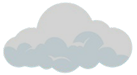
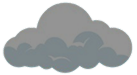
feat : 구름 상태 차이 및 구름 클릭 시 바로가기

diff --git a/src/components/roadmap/cloud.jsx b/src/components/roadmap/cloud.jsx
@@ -1,5 +1,5 @@
 import "../../css/roadmap/roadmapPage.css";
-import { CLOUD_STATE } from "../../data/roadmapStagedata";
+import { CLOUD_STATE, SHORT_CUT_URL } from "../../data/roadmapStagedata";
 
 const prefix = `/src/assets/roadmap/images/`;
 
@@ -13,9 +13,52 @@ const prefix = `/src/assets/roadmap/images/`;
  * @param {function} onMouseEnter - 마우스가 구름 진입 시 실행될 함수
  * @param {function} onMouseLeave - 마우스가 구름 이탈 시 실행될 함수
  */
-function Cloud({stageId, position, state, onClick, isCurrent, onMouseEnter, onMouseLeave,}) {
+function Cloud({
+  stageId,
+  position,
+  state,
+  onClick,
+  isCurrent,
+  onMouseEnter,
+  onMouseLeave,
+}) {
   // 이미지 링크
   let imgSrc;
+
+  const handleClick = () => {
+    if (isCurrent) {
+      // 현재 캐릭터가 있는 구름이면 바로가기 URL로 이동
+      const shortcutUrl = SHORT_CUT_URL[stageId - 1]; // stageId는 1부터 시작하므로 -1
+      if (shortcutUrl) {
+        const width = 1200;
+        const height = 800;
+
+        if (stageId == 3) {
+          window.resizeTo(width, height);
+          navigate("/worldcup");
+
+          return;
+        }
+
+        const targetUrl = SHORT_CUT_URL[stageId - 1];
+
+        const message = {
+          type: "navigateParent",
+          url: targetUrl,
+        };
+
+        if (window.opener) {
+          window.opener.postMessage(message, shortcutUrl);
+          window.close();
+        } else {
+          console.log("부모 창을 찾을 수 없습니다.");
+        }
+      }
+    } else if (onClick) {
+      // 그렇지 않으면 기존 onClick 함수 실행
+      onClick();
+    }
+  };
 
   // 스테이지 ID와 상태에 따라 이미지 선택
   if (stageId === 1) {
@@ -33,7 +76,7 @@ function Cloud({stageId, position, state, onClick, isCurrent, onMouseEnter, onMo
     if (state === CLOUD_STATE.COMPLETED || state === CLOUD_STATE.PROGRESS) {
       imgSrc = "cloud1_unlock.png";
     } else {
-      imgSrc = "cloud1_lock.png";
+      imgSrc = "cloud2_lock.png";
     }
   }
 
@@ -46,7 +89,7 @@ function Cloud({stageId, position, state, onClick, isCurrent, onMouseEnter, onMo
       className={cloudClass}
       style={{ top: top, left: left }}
       data-stage={stageId}
-      onClick={onClick}
+      onClick={handleClick}
       onMouseEnter={onMouseEnter}
       onMouseLeave={onMouseLeave}
     >

diff --git a/src/css/roadmap/roadmapPage.css b/src/css/roadmap/roadmapPage.css
@@ -84,12 +84,16 @@ body {
   animation: reversePulse 2s infinite; /* 클릭 가능함을 알리는 애니메이션 */
 }
 
+div[class*="cloud locked"]:not([data-stage="11"]) {
+  transform: scale(0.6);
+}
+
 .cloud.completed {
   cursor: pointer;
 }
 
 .cloud.progress.current {
-  cursor: default;
+  cursor: pointer;
   animation: none;
 }
 
@@ -101,9 +105,9 @@ body {
 }
 
 @keyframes reversePulse {
-  0% { transform: scale(1.1); }
+  0% { transform: scale(1.2); }
   50% { transform: scale(1); }
-  100% { transform: scale(1.1); }
+  100% { transform: scale(1.2); }
 }
 
 /* 달력 슬라이더 */
